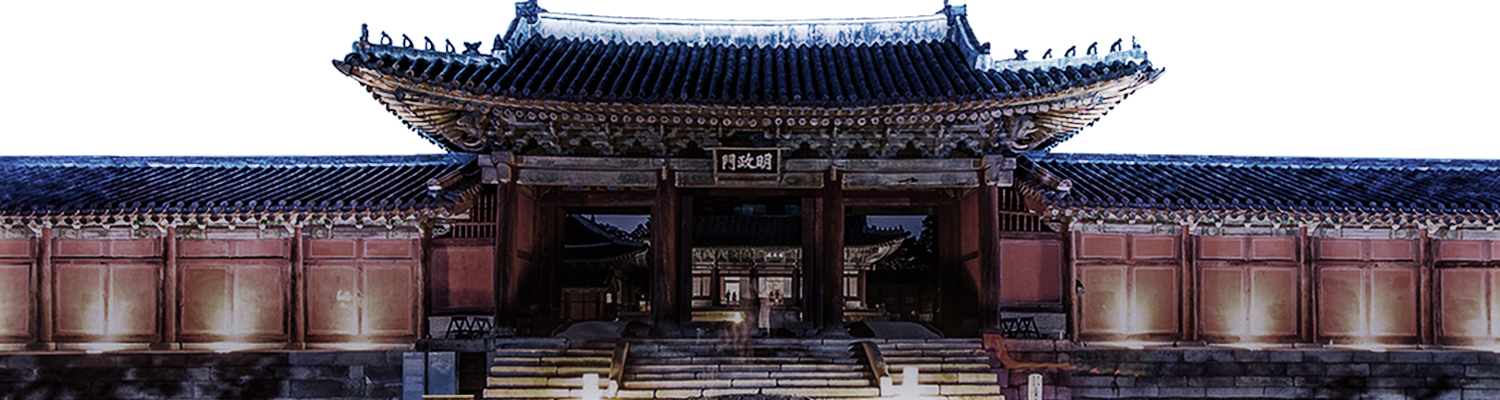
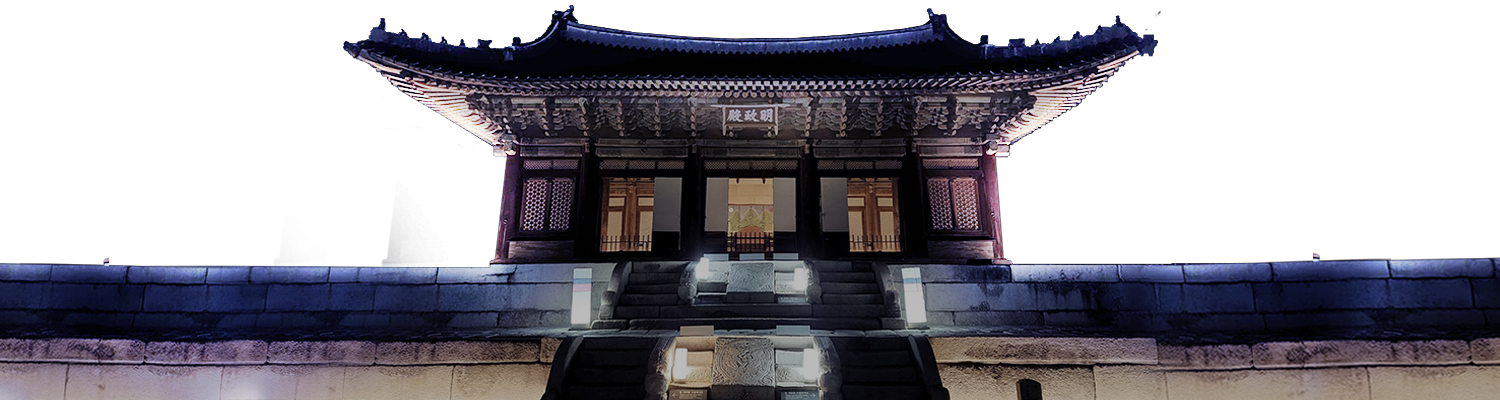
메인 비주얼 수정

diff --git a/main-visual.php b/main-visual.php
@@ -32,18 +32,42 @@
   <div class="slider slider1">
     <div class="star" id="star1"></div>
     <video class="moon" src="./video/moon.mp4" loop muted autoplay playisline></video>
-
+    <em class="name point-sans">
+      景福宮
+    </em>
+    <figure class="castle castle1">
+      <img class="lg" src="./img/main/main-visual/kbg.png" alt="">
+      <img class="sm" src="./img/main/main-visual/kbgs.png" alt="">
+    </figure>
+    <video class="season spring" src="./video/spring.mp4" loop muted autoplay playisline></video>
   </div><!-- 1 -->
+
   <div class="slider slider2">
     <div class="star" id="star2"></div>
     <video class="moon" src="./video/moon.mp4" loop muted autoplay playisline></video>
-
+    <em class="name point-sans">
+      德壽宮
+    </em>
+    <figure class="castle castle2">
+      <img class="lg" src="./img/main/main-visual/dsg.png" alt="">
+      <img class="sm" src="./img/main/main-visual/dsgs.png" alt="">
+    </figure>
+    <video class="season summer" src="./video/summer2.mp4" loop muted autoplay playisline></video>
   </div><!-- 2 -->
+
   <div class="slider slider3">
     <div class="star" id="star3"></div>
     <video class="moon" src="./video/moon.mp4" loop muted autoplay playisline></video>
-
+    <em class="name point-sans">
+      昌慶宮
+    </em>
+    <figure class="castle castle3">
+      <img class="lg" src="./img/main/main-visual/cgg.png" alt="">
+      <img class="sm" src="./img/main/main-visual/cggs.png" alt="">
+    </figure>
+    <video class="season autumn" src="./video/autumn.mp4" loop muted autoplay playisline></video>
   </div><!-- 3 -->
+
   <div class="slider slider4">
 
     <div class="star" id="star4"></div>
@@ -52,8 +76,8 @@
       昌德宮
     </em>
     <figure class="castle castle4">
-      <img class="lg" src="./img/main/main-visual/kbg.png" alt="">
-      <img class="sm" src="./img/main/main-visual/kbgs.png" alt="">
+      <img class="lg" src="./img/main/main-visual/cdg.png" alt="">
+      <img class="sm" src="./img/main/main-visual/cdgs.png" alt="">
     </figure>
     <video class="season winter" src="./video/winter.mp4" loop muted autoplay playisline></video>
 
